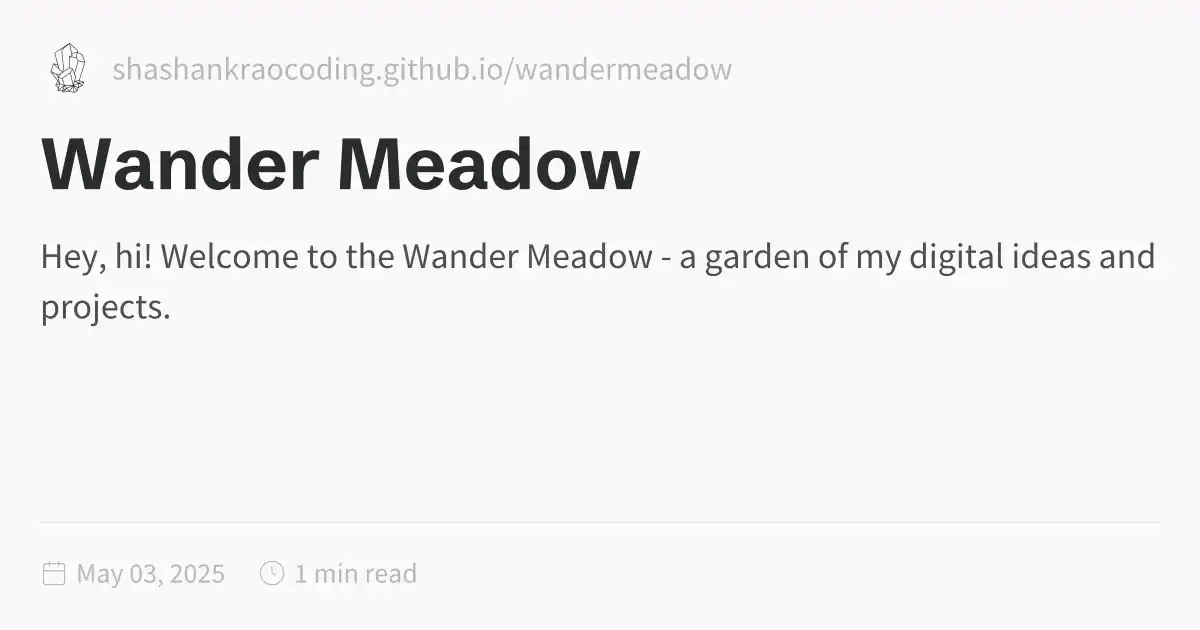
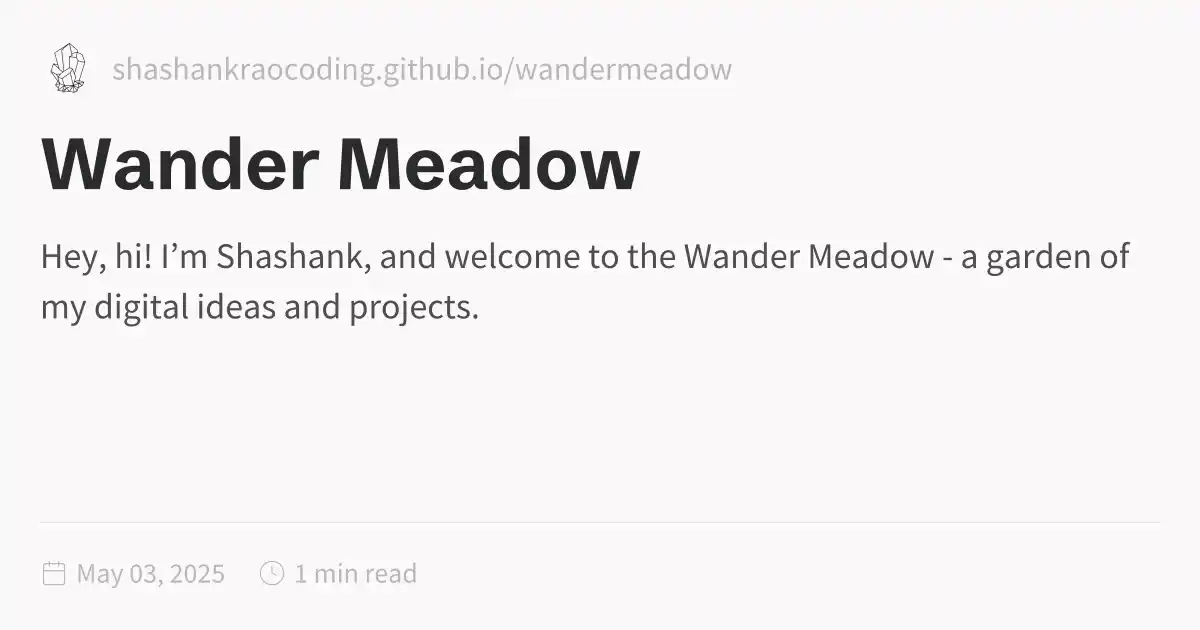
Update public folder - 2025-05-03\_1245

Changed region(s): [[0.1233, 0.3921, 0.9867, 0.4524], [0.0308, 0.4524, 0.4008, 0.5127]]

diff --git a/Wander-Meadow.html b/Wander-Meadow.html
@@ -1,5 +1,5 @@
 <!DOCTYPE html>
-<html lang="en"><head><title>Wander Meadow</title><meta charset="utf-8"/><link rel="preconnect" href="https://fonts.googleapis.com"/><link rel="preconnect" href="https://fonts.gstatic.com"/><link rel="stylesheet" href="https://fonts.googleapis.com/css2?family=Schibsted Grotesk:wght@400;700&amp;family=Source Sans Pro:ital,wght@0,400;0,600;1,400;1,600&amp;family=IBM Plex Mono:wght@400;600&amp;display=swap"/><link rel="preconnect" href="https://cdnjs.cloudflare.com" crossorigin="anonymous"/><meta name="viewport" content="width=device-width, initial-scale=1.0"/><meta name="og:site_name" content="Wander Meadow"/><meta property="og:title" content="Wander Meadow"/><meta property="og:type" content="website"/><meta name="twitter:card" content="summary_large_image"/><meta name="twitter:title" content="Wander Meadow"/><meta name="twitter:description" content="Hey, hi! Welcome to the Wander Meadow - a garden of my digital ideas and projects."/><meta property="og:description" content="Hey, hi! Welcome to the Wander Meadow - a garden of my digital ideas and projects."/><meta property="og:image:alt" content="Hey, hi! Welcome to the Wander Meadow - a garden of my digital ideas and projects."/><meta property="twitter:domain" content="shashankraocoding.github.io/wandermeadow"/><meta property="og:url" content="https://shashankraocoding.github.io/wandermeadow/Wander-Meadow"/><meta property="twitter:url" content="https://shashankraocoding.github.io/wandermeadow/Wander-Meadow"/><link rel="icon" href="./static/icon.png"/><meta name="description" content="Hey, hi! Welcome to the Wander Meadow - a garden of my digital ideas and projects."/><meta name="generator" content="Quartz"/><link href="./index.css" rel="stylesheet" type="text/css" spa-preserve/><style>.expand-button {
+<html lang="en"><head><title>Wander Meadow</title><meta charset="utf-8"/><link rel="preconnect" href="https://fonts.googleapis.com"/><link rel="preconnect" href="https://fonts.gstatic.com"/><link rel="stylesheet" href="https://fonts.googleapis.com/css2?family=Schibsted Grotesk:wght@400;700&amp;family=Source Sans Pro:ital,wght@0,400;0,600;1,400;1,600&amp;family=IBM Plex Mono:wght@400;600&amp;display=swap"/><link rel="preconnect" href="https://cdnjs.cloudflare.com" crossorigin="anonymous"/><meta name="viewport" content="width=device-width, initial-scale=1.0"/><meta name="og:site_name" content="Wander Meadow"/><meta property="og:title" content="Wander Meadow"/><meta property="og:type" content="website"/><meta name="twitter:card" content="summary_large_image"/><meta name="twitter:title" content="Wander Meadow"/><meta name="twitter:description" content="Hey, hi! I’m Shashank, and welcome to the Wander Meadow - a garden of my digital ideas and projects."/><meta property="og:description" content="Hey, hi! I’m Shashank, and welcome to the Wander Meadow - a garden of my digital ideas and projects."/><meta property="og:image:alt" content="Hey, hi! I’m Shashank, and welcome to the Wander Meadow - a garden of my digital ideas and projects."/><meta property="twitter:domain" content="shashankraocoding.github.io/wandermeadow"/><meta property="og:url" content="https://shashankraocoding.github.io/wandermeadow/Wander-Meadow"/><meta property="twitter:url" content="https://shashankraocoding.github.io/wandermeadow/Wander-Meadow"/><link rel="icon" href="./static/icon.png"/><meta name="description" content="Hey, hi! I’m Shashank, and welcome to the Wander Meadow - a garden of my digital ideas and projects."/><meta name="generator" content="Quartz"/><link href="./index.css" rel="stylesheet" type="text/css" spa-preserve/><style>.expand-button {
   position: absolute;
   display: flex;
   float: right;
@@ -116,8 +116,8 @@ pre:hover > .expand-button {
   padding: 0 12px;
   font-size: 14px;
 }
[1 lines of base64/hex data omitted]
-<p>Welcome to the Wander Meadow -  a garden of my digital ideas and projects. Have a wander around, see if you like something :D It’s all free to use, and if you’d like to get involved, <a href="./Contact-Me" class="internal alias" data-slug="Contact-Me">reach out </a> to me!</p>
[1 lines of base64/hex data omitted]
+<p>I’m Shashank, and welcome to the <em>Wander Meadow</em> -  a garden of my digital ideas and projects. Have a wander around, see if you like something! It’s all free to use, and if you’d like to get involved, <a href="./Contact-Me" class="internal alias" data-slug="Contact-Me">reach out </a> to me!</p>
 <h2 id="coding">Coding<a role="anchor" aria-hidden="true" tabindex="-1" data-no-popover="true" href="#coding" class="internal"><svg width="18" height="18" viewBox="0 0 24 24" fill="none" stroke="currentColor" stroke-width="2" stroke-linecap="round" stroke-linejoin="round"><path d="M10 13a5 5 0 0 0 7.54.54l3-3a5 5 0 0 0-7.07-7.07l-1.72 1.71"></path><path d="M14 11a5 5 0 0 0-7.54-.54l-3 3a5 5 0 0 0 7.07 7.07l1.71-1.71"></path></svg></a></h2>
 <ul>
 <li><a href="https://www.gwasexplorer.com" class="external">GWAS Explorer 🔍<svg aria-hidden="true" class="external-icon" style="max-width:0.8em;max-height:0.8em;" viewBox="0 0 512 512"><path d="M320 0H288V64h32 82.7L201.4 265.4 178.7 288 224 333.3l22.6-22.6L448 109.3V192v32h64V192 32 0H480 320zM32 32H0V64 480v32H32 456h32V480 352 320H424v32 96H64V96h96 32V32H160 32z"></path></svg></a></li>

diff --git a/index.html b/index.html
@@ -1,5 +1,5 @@
 <!DOCTYPE html>
-<html lang="en"><head><title>Wander Meadow</title><meta charset="utf-8"/><link rel="preconnect" href="https://fonts.googleapis.com"/><link rel="preconnect" href="https://fonts.gstatic.com"/><link rel="stylesheet" href="https://fonts.googleapis.com/css2?family=Schibsted Grotesk:wght@400;700&amp;family=Source Sans Pro:ital,wght@0,400;0,600;1,400;1,600&amp;family=IBM Plex Mono:wght@400;600&amp;display=swap"/><link rel="preconnect" href="https://cdnjs.cloudflare.com" crossorigin="anonymous"/><meta name="viewport" content="width=device-width, initial-scale=1.0"/><meta name="og:site_name" content="Wander Meadow"/><meta property="og:title" content="Wander Meadow"/><meta property="og:type" content="website"/><meta name="twitter:card" content="summary_large_image"/><meta name="twitter:title" content="Wander Meadow"/><meta name="twitter:description" content="Hey, hi! Welcome to the Wander Meadow - a garden of my digital ideas and projects."/><meta property="og:description" content="Hey, hi! Welcome to the Wander Meadow - a garden of my digital ideas and projects."/><meta property="og:image:alt" content="Hey, hi! Welcome to the Wander Meadow - a garden of my digital ideas and projects."/><meta property="twitter:domain" content="shashankraocoding.github.io/wandermeadow"/><meta property="og:url" content="https://shashankraocoding.github.io/wandermeadow/Wander-Meadow"/><meta property="twitter:url" content="https://shashankraocoding.github.io/wandermeadow/Wander-Meadow"/><link rel="icon" href="./static/icon.png"/><meta name="description" content="Hey, hi! Welcome to the Wander Meadow - a garden of my digital ideas and projects."/><meta name="generator" content="Quartz"/><link href="./index.css" rel="stylesheet" type="text/css" spa-preserve/><style>.expand-button {
+<html lang="en"><head><title>Wander Meadow</title><meta charset="utf-8"/><link rel="preconnect" href="https://fonts.googleapis.com"/><link rel="preconnect" href="https://fonts.gstatic.com"/><link rel="stylesheet" href="https://fonts.googleapis.com/css2?family=Schibsted Grotesk:wght@400;700&amp;family=Source Sans Pro:ital,wght@0,400;0,600;1,400;1,600&amp;family=IBM Plex Mono:wght@400;600&amp;display=swap"/><link rel="preconnect" href="https://cdnjs.cloudflare.com" crossorigin="anonymous"/><meta name="viewport" content="width=device-width, initial-scale=1.0"/><meta name="og:site_name" content="Wander Meadow"/><meta property="og:title" content="Wander Meadow"/><meta property="og:type" content="website"/><meta name="twitter:card" content="summary_large_image"/><meta name="twitter:title" content="Wander Meadow"/><meta name="twitter:description" content="Hey, hi! I’m Shashank, and welcome to the Wander Meadow - a garden of my digital ideas and projects."/><meta property="og:description" content="Hey, hi! I’m Shashank, and welcome to the Wander Meadow - a garden of my digital ideas and projects."/><meta property="og:image:alt" content="Hey, hi! I’m Shashank, and welcome to the Wander Meadow - a garden of my digital ideas and projects."/><meta property="twitter:domain" content="shashankraocoding.github.io/wandermeadow"/><meta property="og:url" content="https://shashankraocoding.github.io/wandermeadow/Wander-Meadow"/><meta property="twitter:url" content="https://shashankraocoding.github.io/wandermeadow/Wander-Meadow"/><link rel="icon" href="./static/icon.png"/><meta name="description" content="Hey, hi! I’m Shashank, and welcome to the Wander Meadow - a garden of my digital ideas and projects."/><meta name="generator" content="Quartz"/><link href="./index.css" rel="stylesheet" type="text/css" spa-preserve/><style>.expand-button {
   position: absolute;
   display: flex;
   float: right;
@@ -116,8 +116,8 @@ pre:hover > .expand-button {
   padding: 0 12px;
   font-size: 14px;
 }
[1 lines of base64/hex data omitted]
-<p>Welcome to the Wander Meadow -  a garden of my digital ideas and projects. Have a wander around, see if you like something :D It’s all free to use, and if you’d like to get involved, <a href="./Contact-Me" class="internal alias" data-slug="Contact-Me">reach out </a> to me!</p>
[1 lines of base64/hex data omitted]
+<p>I’m Shashank, and welcome to the <em>Wander Meadow</em> -  a garden of my digital ideas and projects. Have a wander around, see if you like something! It’s all free to use, and if you’d like to get involved, <a href="./Contact-Me" class="internal alias" data-slug="Contact-Me">reach out </a> to me!</p>
 <h2 id="coding">Coding<a role="anchor" aria-hidden="true" tabindex="-1" data-no-popover="true" href="#coding" class="internal"><svg width="18" height="18" viewBox="0 0 24 24" fill="none" stroke="currentColor" stroke-width="2" stroke-linecap="round" stroke-linejoin="round"><path d="M10 13a5 5 0 0 0 7.54.54l3-3a5 5 0 0 0-7.07-7.07l-1.72 1.71"></path><path d="M14 11a5 5 0 0 0-7.54-.54l-3 3a5 5 0 0 0 7.07 7.07l1.71-1.71"></path></svg></a></h2>
 <ul>
 <li><a href="https://www.gwasexplorer.com" class="external">GWAS Explorer 🔍<svg aria-hidden="true" class="external-icon" style="max-width:0.8em;max-height:0.8em;" viewBox="0 0 512 512"><path d="M320 0H288V64h32 82.7L201.4 265.4 178.7 288 224 333.3l22.6-22.6L448 109.3V192v32h64V192 32 0H480 320zM32 32H0V64 480v32H32 456h32V480 352 320H424v32 96H64V96h96 32V32H160 32z"></path></svg></a></li>
